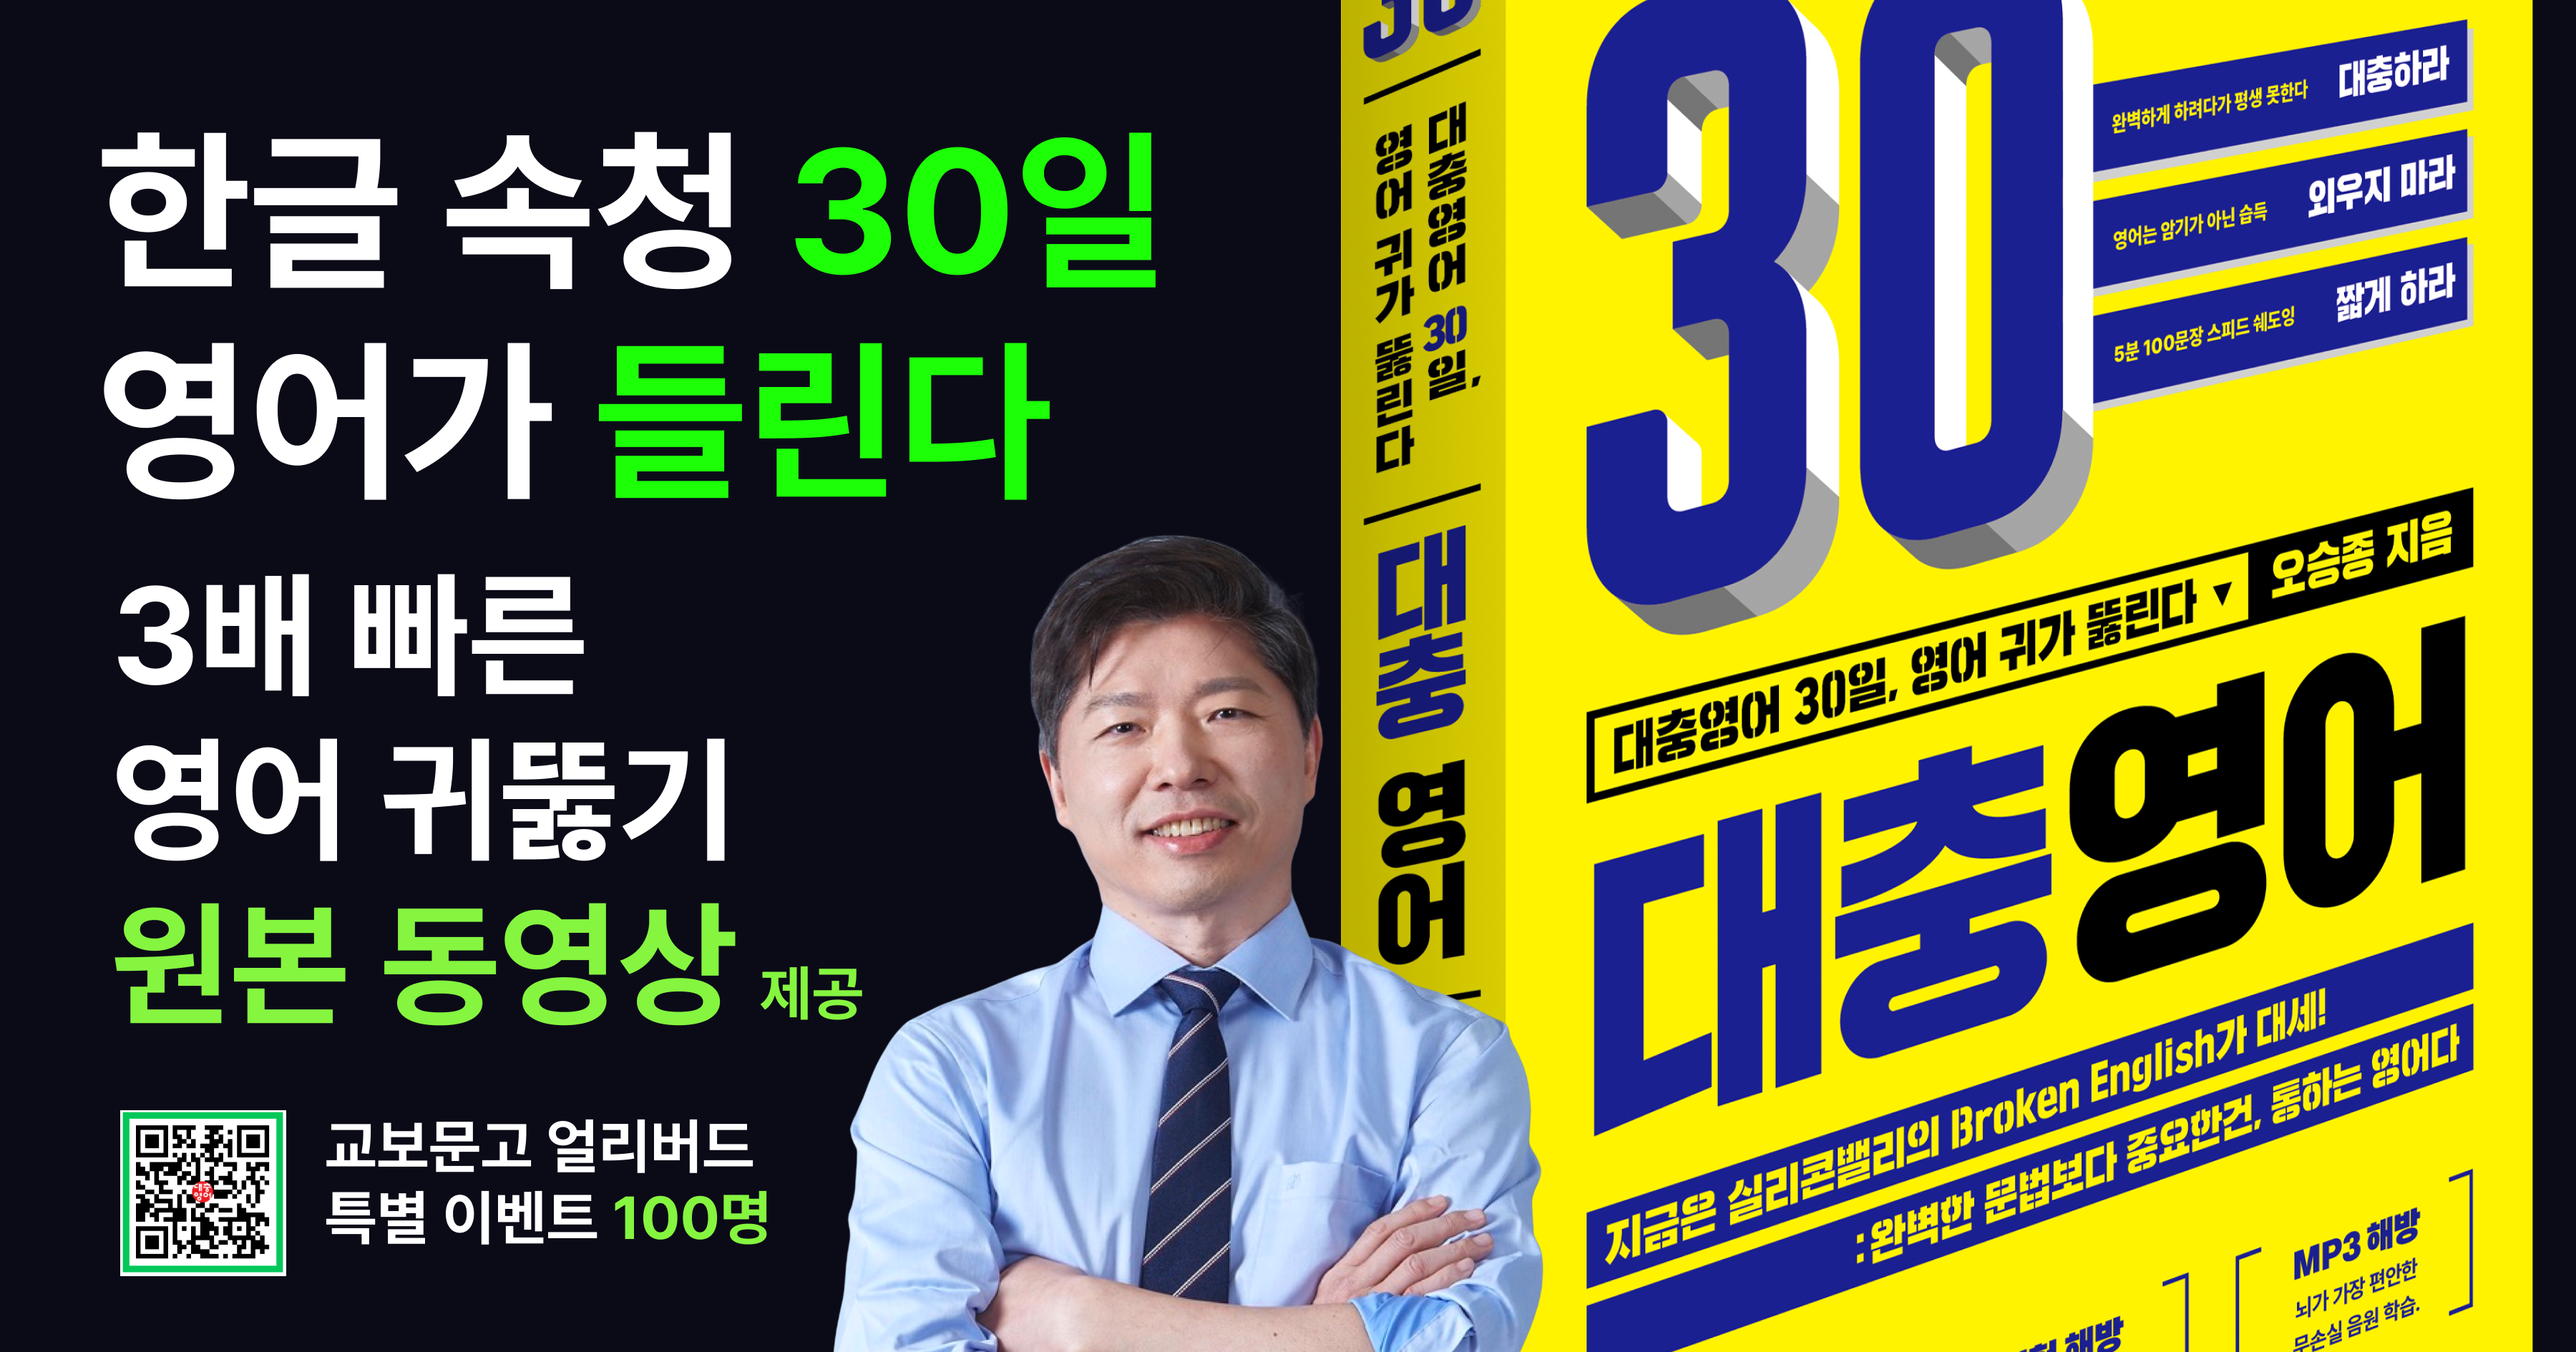
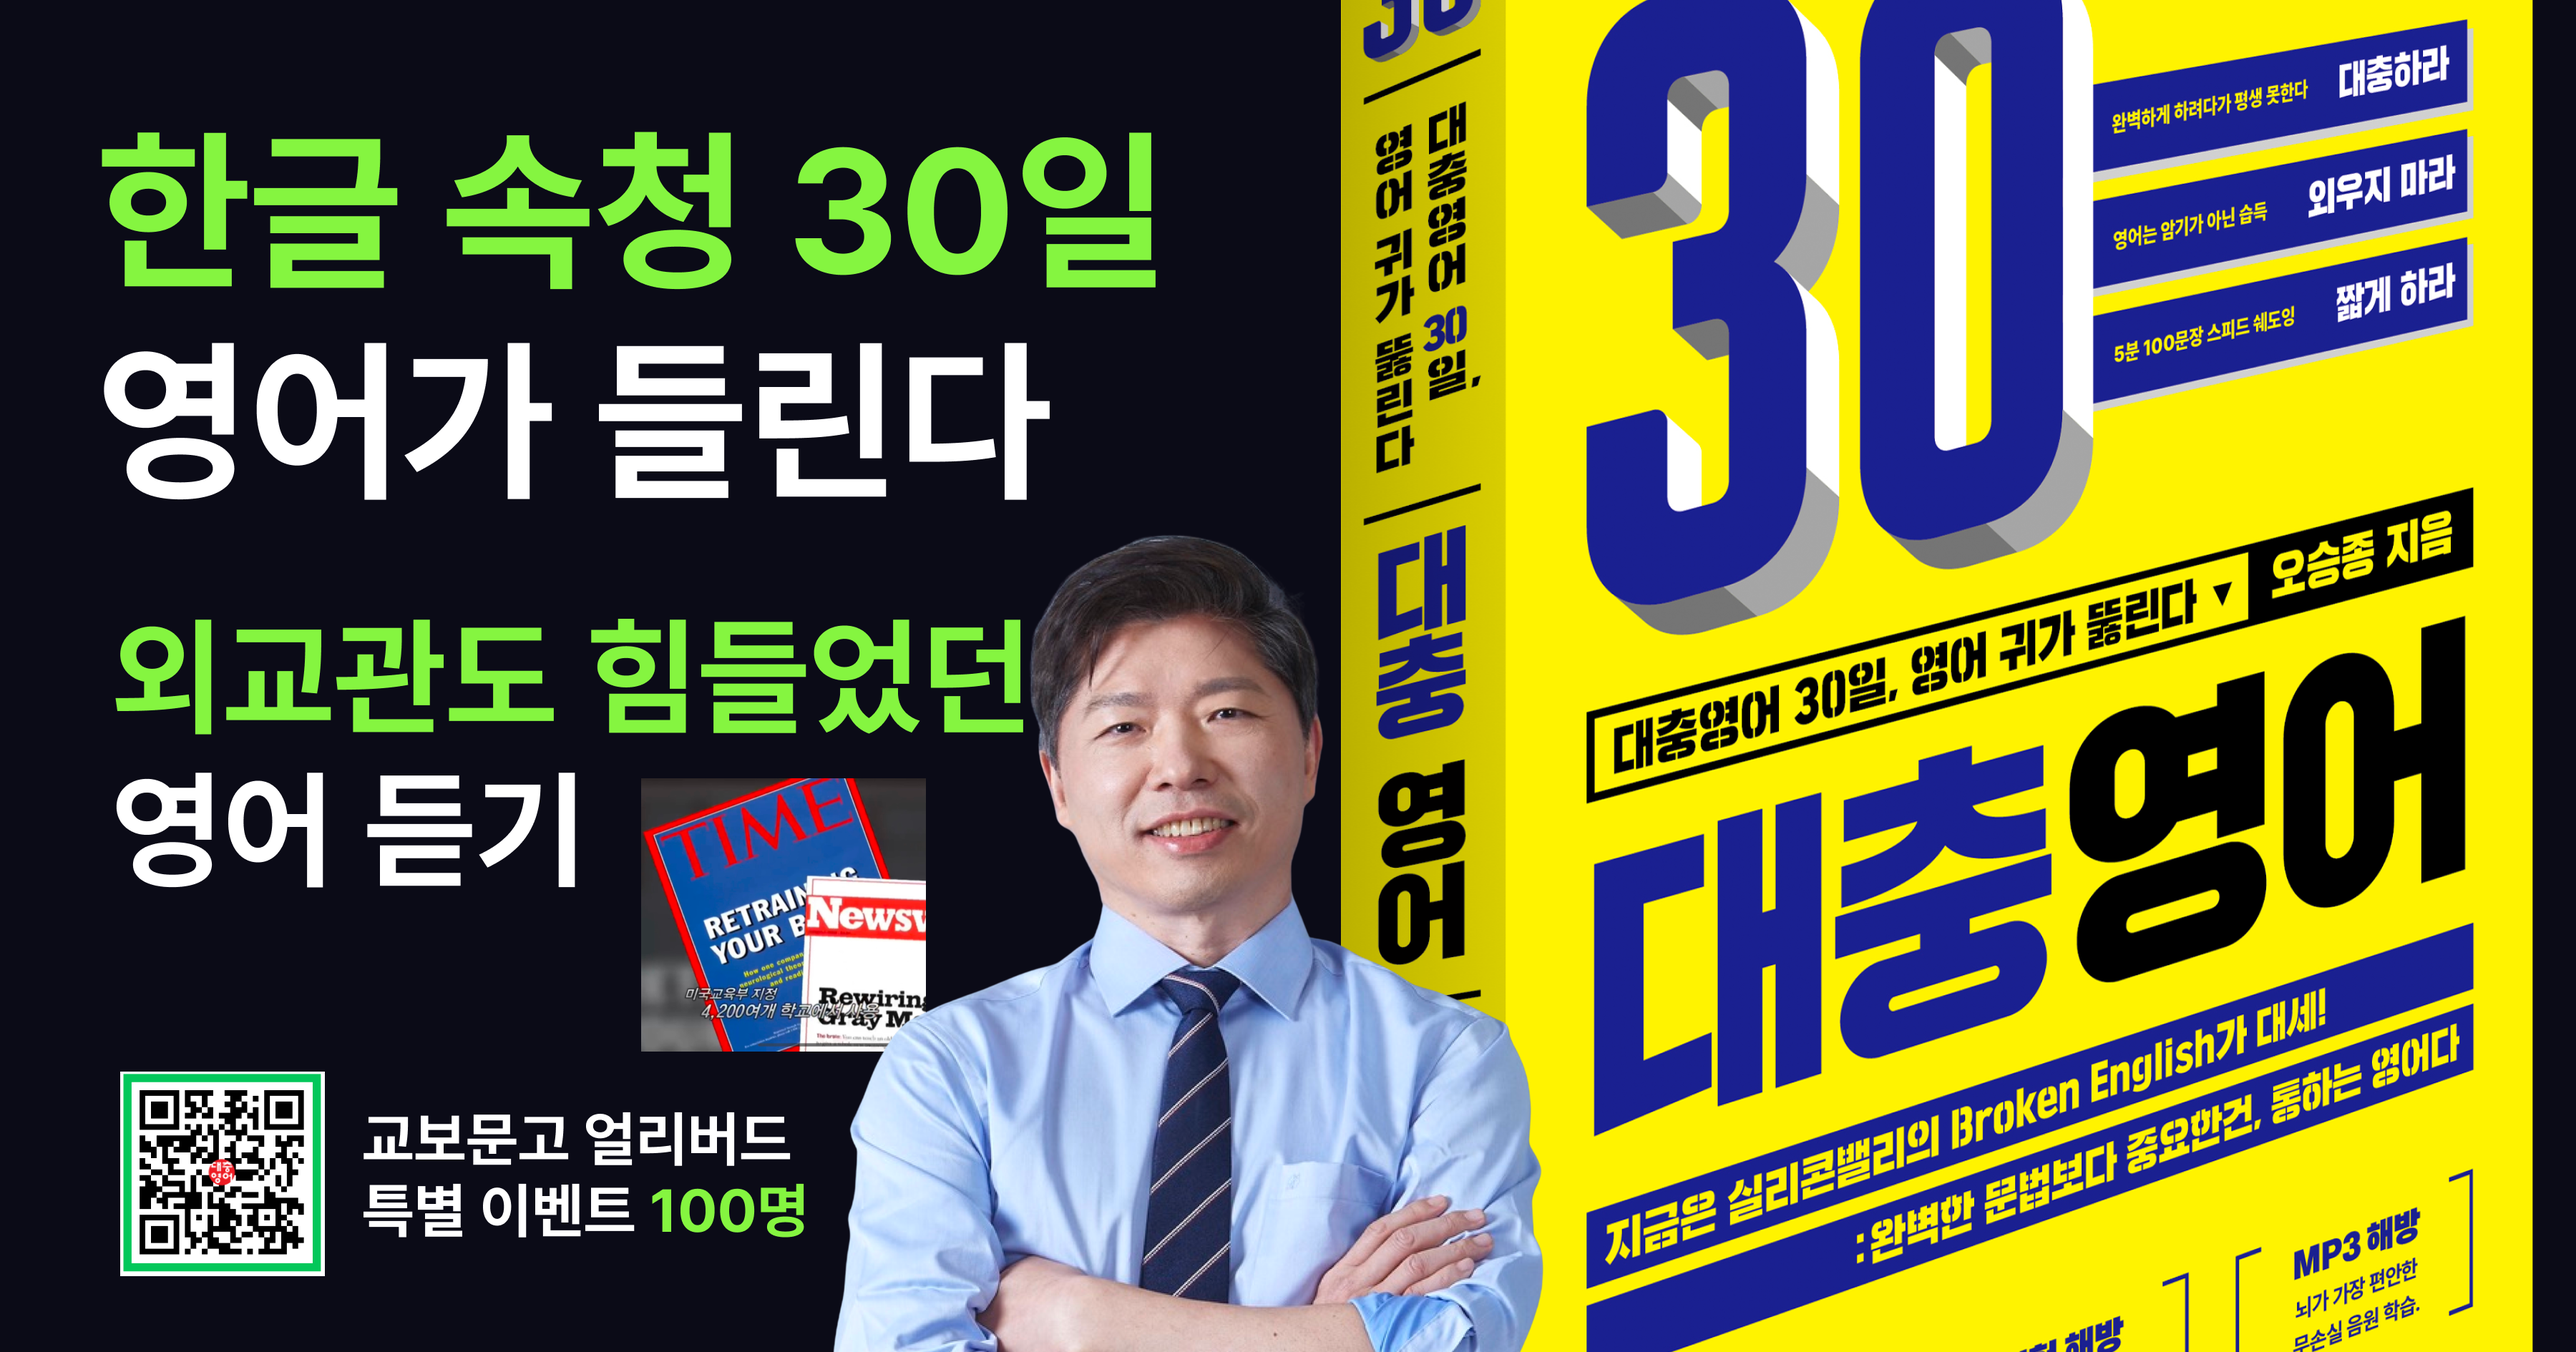
Update: 메타 이미지 업데이트 및 캐시 버전 v6

Changed region(s): [[0.0311, 0.4058, 0.4044, 0.9677], [0.0311, 0.0937, 0.4667, 0.2185], [0.2178, 0.2497, 0.4044, 0.3746]]

diff --git a/index.html b/index.html
@@ -8,10 +8,10 @@
 
     <!-- Open Graph / Facebook -->
     <meta property="og:type" content="website">
-    <meta property="og:url" content="https://mp3-free.vercel.app/">
+    <meta property="og:url" content="https://mp3-free.app/">
     <meta property="og:title" content="교보문고 선착순 100명 3배 빠른 영어 귀 뚫기 원본 동영상 제공">
-    <meta property="og:description" content="교보문고에서 '대충영어 속청 30일' 구매 시 선착순 100명에게 영어 귀를 3배 빨리 뚫는 WAV 원본 동영상 무료 제공">
-    <meta property="og:image" content="https://mp3-free.vercel.app/asset/meta-image-store.png?v=5">
+    <meta property="og:description" content="교보문고에서 '대충영어' 구매 시 선착순 100명에게 영어 귀를 3배 빨리 뚫는 WAV 원본 동영상 무료 제공">
+    <meta property="og:image" content="https://mp3-free.app/asset/meta-image-store.png?v=6">
     <meta property="og:image:width" content="1200">
     <meta property="og:image:height" content="630">
 
@@ -20,7 +20,7 @@
     <meta property="twitter:url" content="https://mp3-free.app/">
     <meta property="twitter:title" content="교보문고 선착순 100명 3배 빠른 영어 귀 뚫기 원본 동영상 제공">
     <meta property="twitter:description" content="교보문고에서 '대충영어 속청 30일' 구매 시 선착순 100명에게 영어 귀를 3배 빨리 뚫는 WAV 원본 동영상 무료 제공">
-    <meta property="twitter:image" content="https://mp3-free.vercel.app/asset/meta-image-store.png?v=5">
+    <meta property="twitter:image" content="https://mp3-free.vercel.app/asset/meta-image-store.png?v=6">
 
     <!-- Google tag (gtag.js) -->
     <script async src="https://www.googletagmanager.com/gtag/js?id=G-MFNKDVP6VE"></script>
